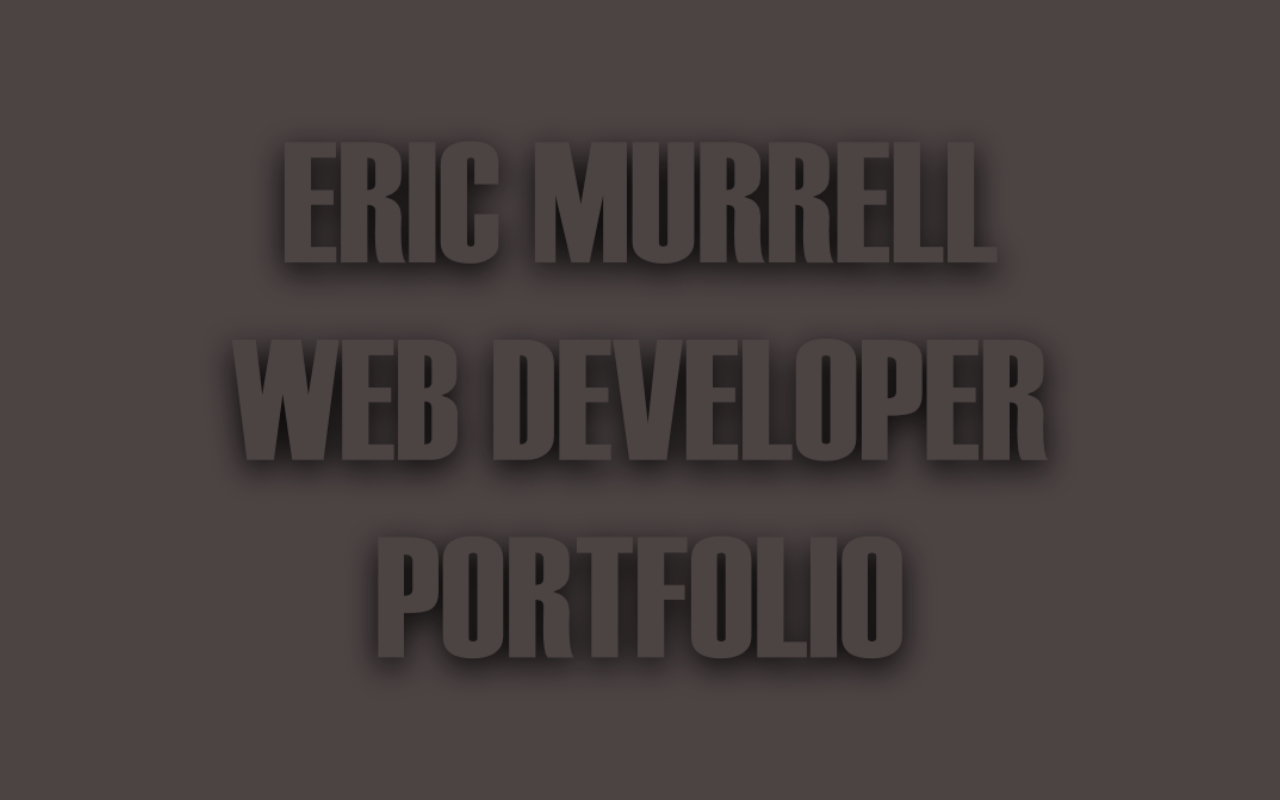
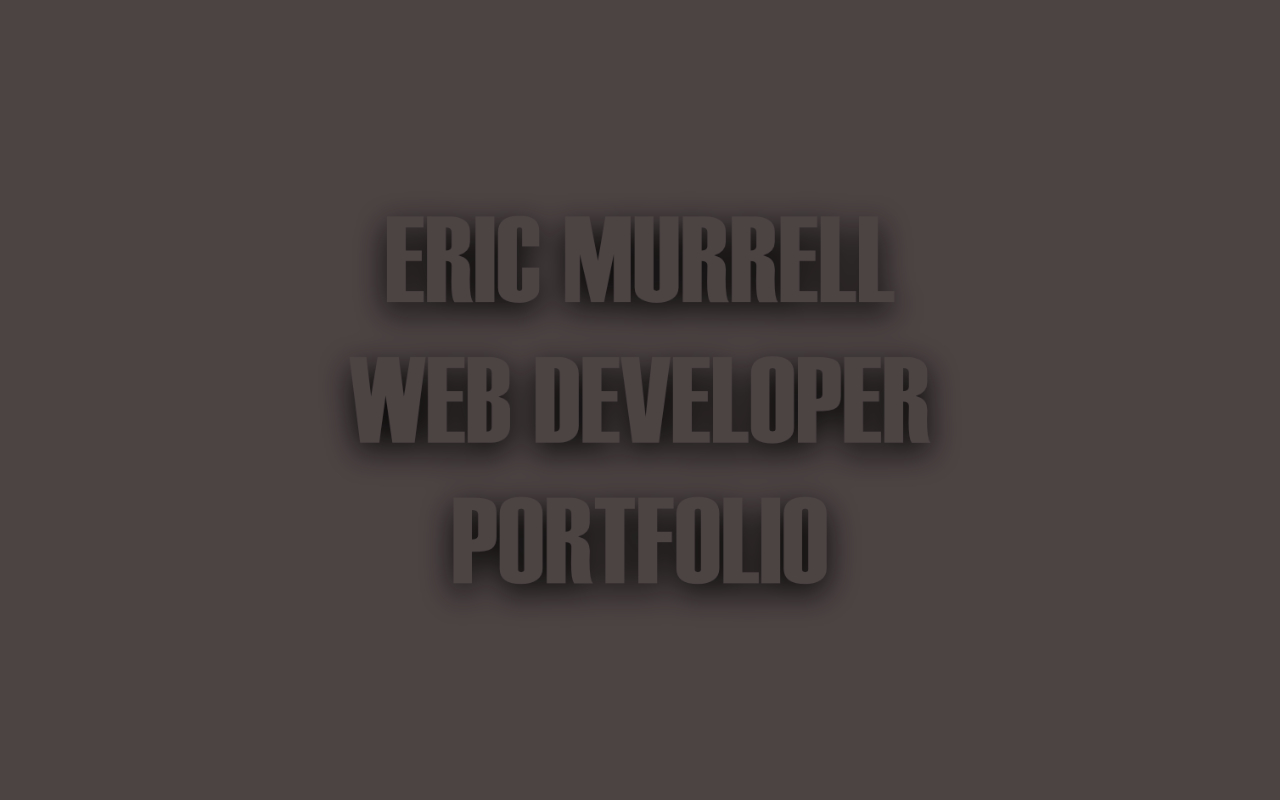
change display font

diff --git a/components/About.js b/components/About.js
@@ -13,13 +13,13 @@ export default function About() {
 
         <div className="flex flex-col w-5/6 pr-12 md:pr-60">
           <FadeIn>
-            <h2 className="pt-12 pb-2 pl-4 text-lg font-extrabold tracking-wide md:pt-28 font-headline md:text-2xl lg:text-3xl text-myorange ">
+            <h2 className="pt-12 pb-2 pl-4 text-lg font-extrabold tracking-wider md:pt-28 font-headline md:text-2xl lg:text-3xl text-myorange ">
               HELLO!
             </h2>
-            <p className="pt-4 pl-4 text-sm font-extrabold tracking-wide font-body md:text-lg lg:text-xl text-midtone ">
+            <p className="pt-4 pl-4 text-sm font-semibold tracking-wider font-body md:text-lg lg:text-xl text-midtone ">
               I AM A SELF-TAUGHT PROGRAMMER BASED IN CANADA. <br />
             </p>
-            <p className="pt-4 pl-4 text-sm font-extrabold tracking-wide font-body md:text-lg lg:text-xl text-midtone ">
+            <p className="pt-4 pl-4 text-sm font-semibold tracking-wider font-body md:text-lg lg:text-xl text-midtone ">
               MY PASSION IS DESIGNING AND DEVELOPING CLEAN, CRISP, RESPONSIVE
               UIs.
             </p>
@@ -36,19 +36,19 @@ export default function About() {
 
         <div className="flex flex-col w-5/6 pr-12 md:pr-60">
           <FadeIn>
-            <p className="pt-2 pl-4 text-sm font-extrabold tracking-wide md:pt-8 font-body md:text-lg lg:text-xl text-midtone">
+            <p className="pt-2 pl-4 text-sm font-semibold tracking-wider md:pt-8 font-body md:text-lg lg:text-xl text-midtone">
               HTML \ CSS \ JAVASCRIPT
             </p>
-            <p className="pt-4 pl-4 text-sm font-extrabold tracking-wide md:pt-6 font-body md:text-lg lg:text-xl text-midtone">
+            <p className="pt-4 pl-4 text-sm font-semibold tracking-wider md:pt-6 font-body md:text-lg lg:text-xl text-midtone">
               REACT \ NODE \ MONGO DB
             </p>
-            <p className="pt-4 pl-4 text-sm font-extrabold tracking-wide md:pt-6 font-body md:text-lg lg:text-xl text-midtone">
+            <p className="pt-4 pl-4 text-sm font-semibold tracking-wider md:pt-6 font-body md:text-lg lg:text-xl text-midtone">
               NEXT.JS \ TAILWIND CSS \ FRAMER-MOTION
             </p>
-            <p className="pt-4 pl-4 text-sm font-extrabold tracking-wide md:pt-6 font-body md:text-lg lg:text-xl text-midtone">
+            <p className="pt-4 pl-4 text-sm font-semibold tracking-wider md:pt-6 font-body md:text-lg lg:text-xl text-midtone">
               GITHUB \ VS CODE \ CLI
             </p>
-            <p className="pt-4 pl-4 text-sm font-extrabold tracking-wide md:pt-6 font-body md:text-lg lg:text-xl text-midtone">
+            <p className="pt-4 pl-4 text-sm font-semibold tracking-wider md:pt-6 font-body md:text-lg lg:text-xl text-midtone">
               AFFINITY PHOTO \ PROCREATE
             </p>
           </FadeIn>

diff --git a/components/Work.js b/components/Work.js
@@ -11,7 +11,7 @@ export default function Work() {
               <div className="flex justify-center pl-4 lg:pl-24">
                 <a href="/ptp">
                   <img
-                    src="ptp-thumb.png"
+                    src="ptp-thumb2.png"
                     alt="ptp case study"
                     height={700}
                     width={700}
@@ -23,7 +23,7 @@ export default function Work() {
                   PUP TO PAL <br />
                 </h1>
                 <Link href="/ptp">
-                  <a className="pb-6 pl-4 text-sm font-extrabold tracking-wide underline transition duration-500 ease-in-out transform hover:-translate-y-1 hover:scale-110 font-body text-myorange hover:text-myblue">
+                  <a className="pb-6 pl-4 text-sm font-semibold tracking-wide underline transition duration-500 ease-in-out transform hover:-translate-y-1 hover:scale-110 font-body text-myorange hover:text-myblue">
                     VIEW CASE STUDY
                   </a>
                 </Link>
@@ -35,7 +35,7 @@ export default function Work() {
               <div className="flex justify-center pl-4 lg:pl-24">
                 <a href="/mtc">
                   <img
-                    src="mtc-thumb.png"
+                    src="mtc-thumb2.png"
                     alt="mtc case study"
                     height={700}
                     width={700}
@@ -48,7 +48,7 @@ export default function Work() {
                   TOUCH <br />
                 </h1>
                 <Link href="/mtc">
-                  <a className="pb-6 pl-4 text-sm font-extrabold tracking-wide underline transition duration-500 ease-in-out transform hover:-translate-y-1 hover:scale-110 font-body text-myorange hover:text-myblue">
+                  <a className="pb-6 pl-4 text-sm font-semibold tracking-wide underline transition duration-500 ease-in-out transform hover:-translate-y-1 hover:scale-110 font-body text-myorange hover:text-myblue">
                     VIEW CASE STUDY
                   </a>
                 </Link>

diff --git a/components/Meta.js b/components/Meta.js
@@ -15,13 +15,9 @@ export default function Meta() {
       <link rel="icon" href="/em2.png" />
 
       <link rel="preconnect" href="https://fonts.googleapis.com" />
+      <link rel="preconnect" href="https://fonts.gstatic.com" crossOrigin />
       <link
-        rel="preconnect"
-        href="https://fonts.gstatic.com"
-        crossOrigin="true"
-      />
-      <link
-        href="https://fonts.googleapis.com/css2?family=Fahkwang:wght@300;400;500;600;700&family=Syne:wght@600;700;800&display=swap"
+        href="https://fonts.googleapis.com/css2?family=Montserrat:wght@400;500;600;700;800&family=Syne:wght@400;500;600;700;800&display=swap"
         rel="stylesheet"
       />
     </Head>

diff --git a/tailwind.config.js b/tailwind.config.js
@@ -59,12 +59,12 @@ module.exports = {
       animation: {
         "fade-in-down": "fade-in-down 0.3s ease-out",
         "fade-in-up": "fade-out-up 0.3s ease-out",
-        "fade-in-right": "fade-in-right 0.5s ease-out",
-        "fade-in-left": "fade-in-left 0.5s ease-out",
+        "fade-in-right": "fade-in-right 0.7s ease-out",
+        "fade-in-left": "fade-in-left 0.7s ease-out",
       },
     },
     fontFamily: {
-      body: ["Fahkwang"],
+      body: ["Montserrat"],
       headline: ["Syne"],
     },
   },
